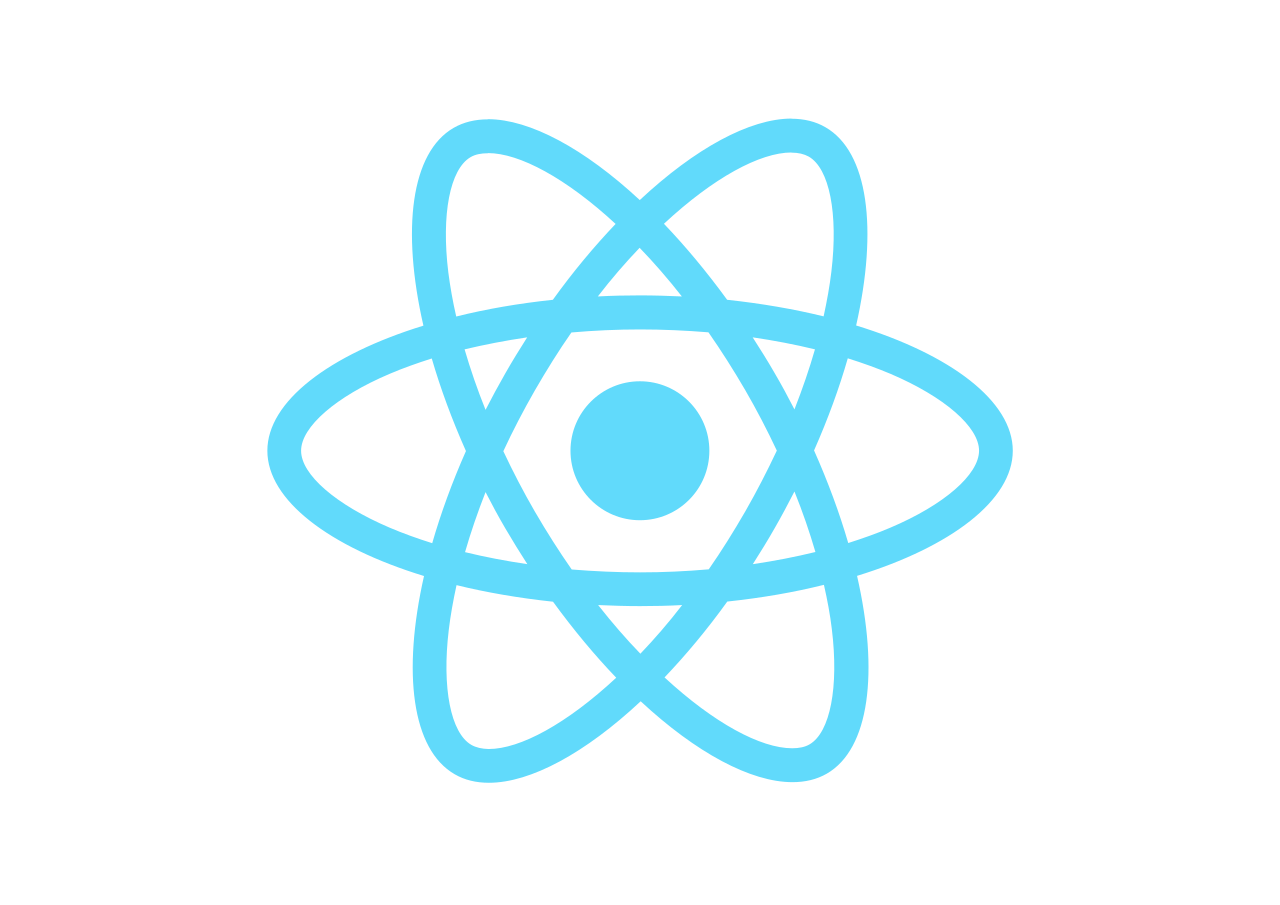
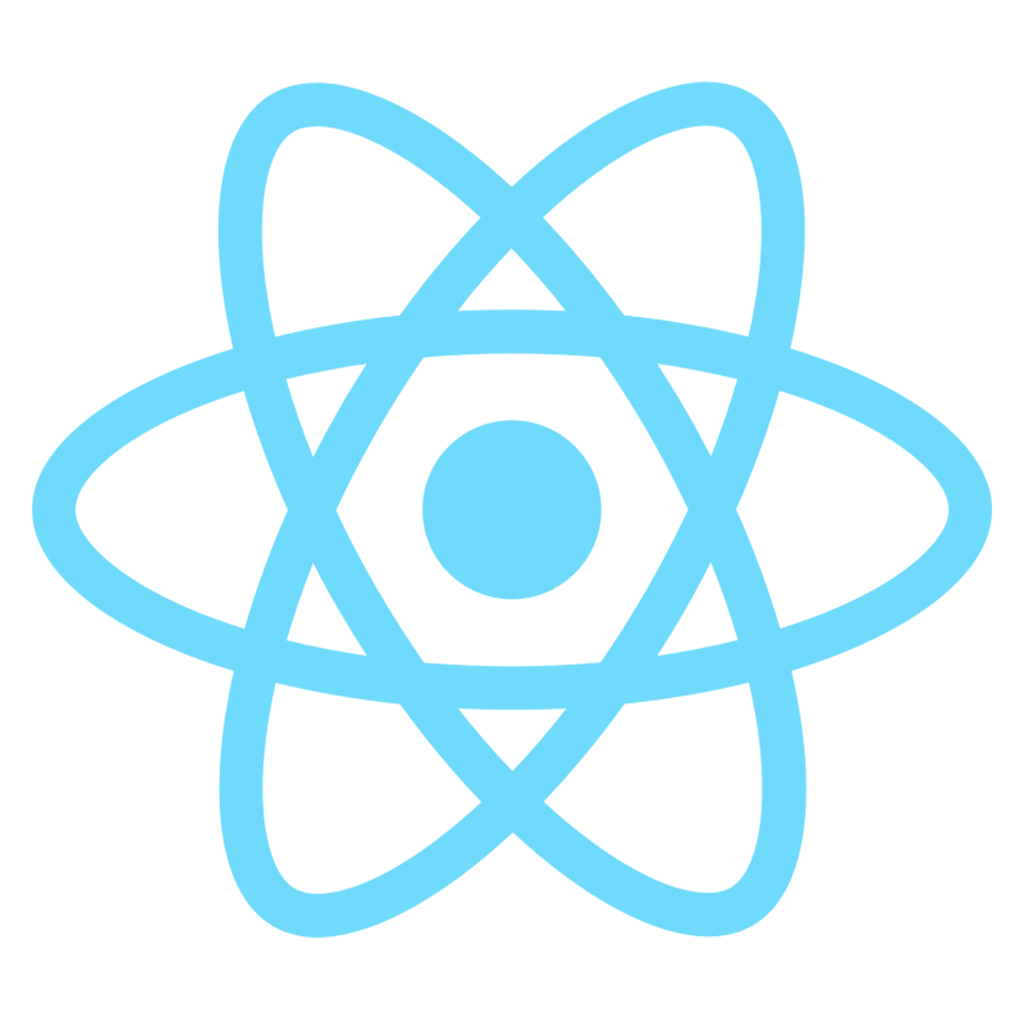
Added skills section

Changed region(s): [[0.0312, 0.0619, 0.9688, 0.9282]]

diff --git a/src/components/Skills.jsx b/src/components/Skills.jsx
@@ -2,15 +2,32 @@ import React from 'react'
 
 export default function Skills () {
   return (
-    <div className="grid md:grid-cols-6 items-center block__container">
+    <div className="grid md:grid-cols-6 lg:grid-cols-8 items-center block__container">
       <div className="md:col-span-2 block__header md:py-10 py-4">
         <h2 className="text-4xl font-semibold">SKILLS</h2>
       </div>
-      <div className="md:col-span-2 block__section p-12 lg:p-20">
+      <div className="md:col-span-3 block__section p-16 h-full">
         <img className="skills__xd__image mx-auto"></img>
+        <div className="text-center">
+          <h2 className="my-4">UI/UX Prototyping &amp; Design</h2>
+          <ul>
+            <li className="font-thin">•&nbsp;Adobe XD</li>
+            <li className="font-thin">•&nbsp;Sketch</li>
+            <li className="font-thin">•&nbsp;Adobe Photoshop</li>
+          </ul>
+        </div>
       </div>
-      <div className="md:col-span-2 block__section p-12 lg:p-20">
-        <img className="skills__react__image mx-auto h-16"></img>
+      <div className="md:col-span-3 block__section p-16 lh-full">
+        <img className="skills__react__image mx-auto"></img>
+        <div className="text-center">
+          <h2 className="my-4">Tech Stack</h2>
+          <ul>
+            <li className="font-thin">•&nbsp;Javascript (React, Redux, jQuery)</li>
+            <li className="font-thin">•&nbsp;CSS (SASS, Bootstrap)</li>
+            <li className="font-thin">•&nbsp;Ruby on Rails</li>
+            <li className="font-thin">•&nbsp;Python</li>
+          </ul>
+        </div>
       </div>
     </div>
   )

diff --git a/src/components/Hero.jsx b/src/components/Hero.jsx
@@ -19,7 +19,7 @@ export default function Hero (props) {
         <div className="grid grid-cols-1 grid-flow-col h-full sm-max:block sm:hidden">
           <div className="col-span-1 hero__column">
             <div className="text-white text-xl text-center md-max:block hero__name my-12">
-              UI/UX Designer | Software Engineer
+            <p>UI/UX <span className="text-light-blue underline">Designer</span> | Software <span className="underline text-light-green">Engineer</span></p>
             </div>
           </div>
         </div>

diff --git a/static/app.css b/static/app.css
@@ -101,6 +101,12 @@ html {
 
 .skills__react__image {
   content:url('../static/images/react.png');
+  height: 50px;
+}
+
+.skills__vertical-line {
+  content:url('../static/images/line.png');
+  max-width: none;
 }
 
 /* COLORS */
